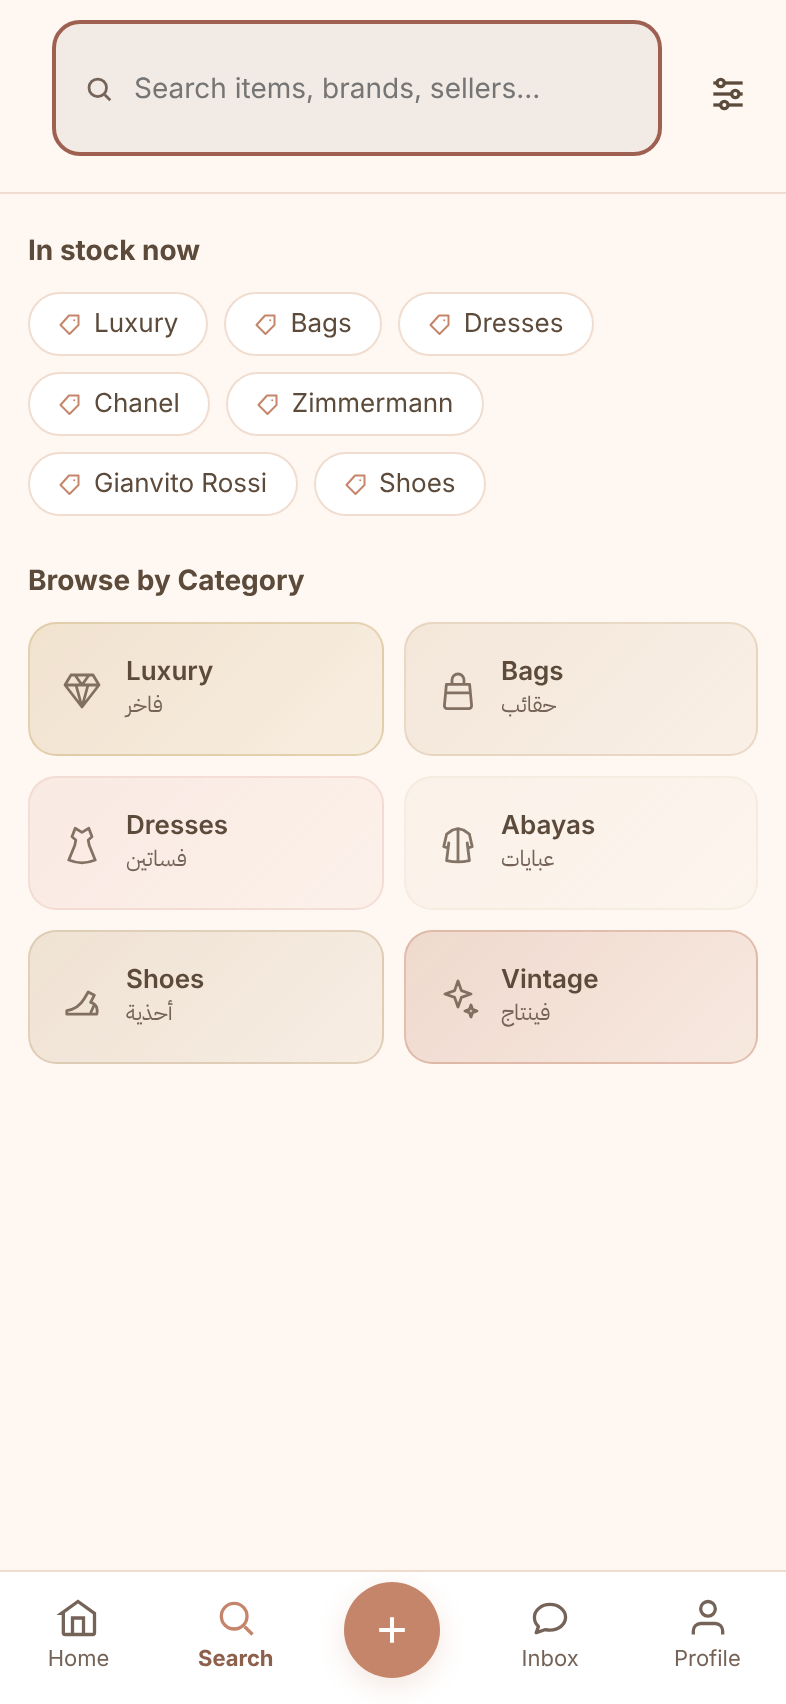
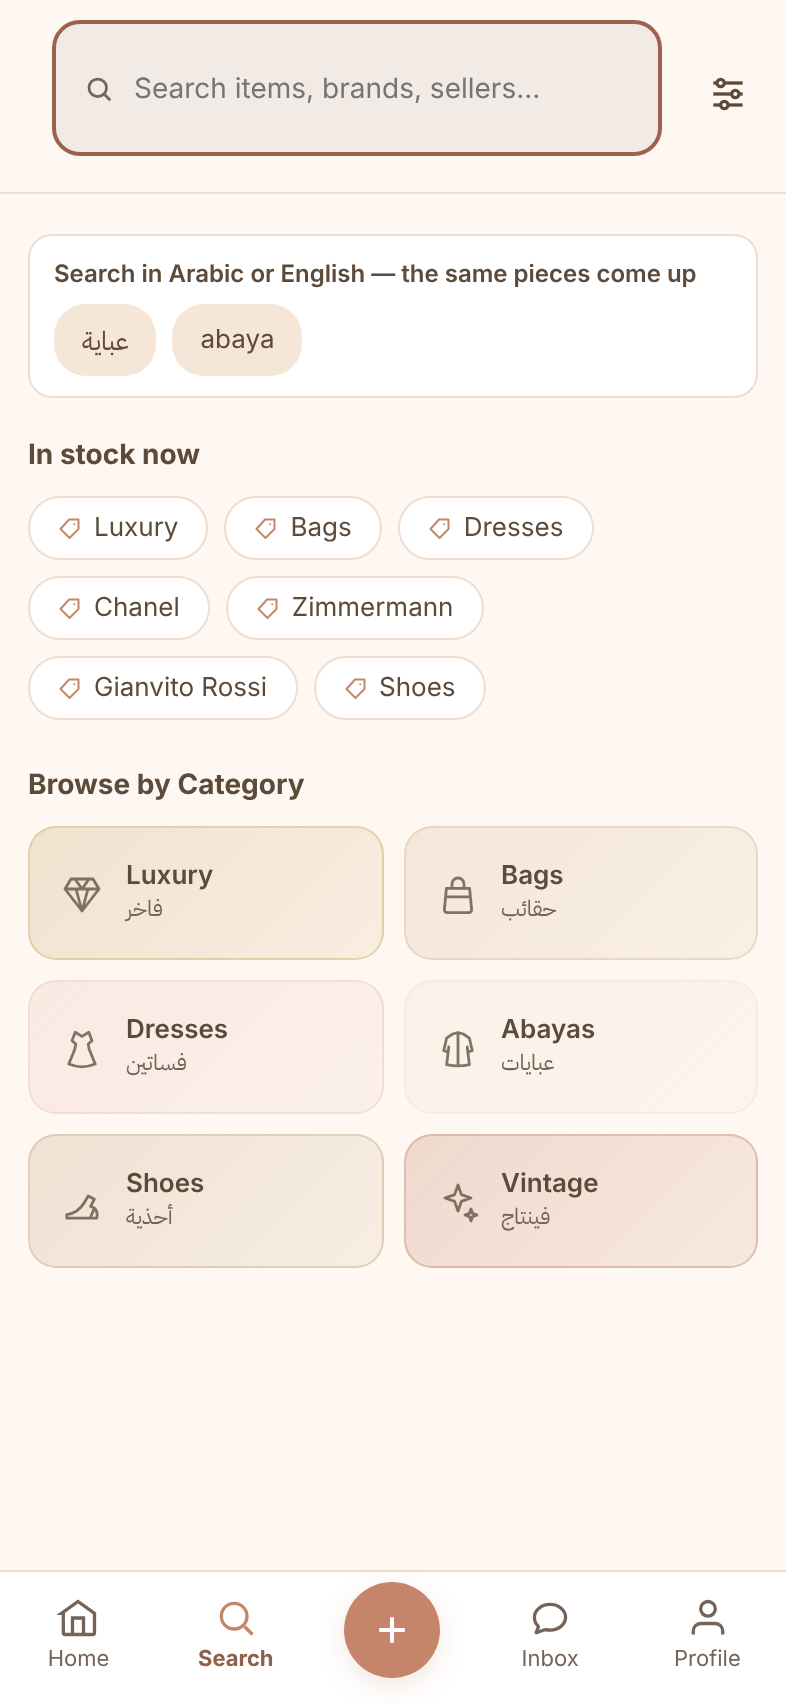
Search says what makes it different: Arabic or English, the same pieces
The empty search screen now opens with one line and two examples she can
tap, one per language (عباية, abaya), each its own control. The bilingual,
typo-tolerant search was lili's clearest advantage and nothing on the screen
said so.

Claude-Session: https://claude.ai/code/session_01P86DKSDSEYei5Au1GwvQne

diff --git a/app/src/pages/SearchPage.jsx b/app/src/pages/SearchPage.jsx
@@ -9,7 +9,7 @@ import { searchLocal, diagnose, suggestions } from "../discovery/search.js";
 import { matchesFilters } from "../discovery/filters.js";
 import { applySort } from "../discovery/ranking.js";
 import * as funnel from "../analytics/funnel.js";
-import { t } from "../i18n/t.js";
+import { t, getLang } from "../i18n/t.js";
 import { C, SearchBar, withHeart, ItemTile } from "../market/shared.jsx";
 import { FiltersPanel } from "../market/FiltersPanel.jsx";
 
@@ -115,6 +115,20 @@ export function SearchPage({items,shops,onSave,setModal,filters,setFilters,saved
               maxPrice: ss.max_price != null ? Number(ss.max_price) : f.maxPrice}));
             setQ(ss.query);
           }}/>
+          {/* The search's real advantage, said where she can try it: Arabic and
+              English find the same pieces (curated garment vocabulary, then
+              near spellings). Two examples she can tap, one per language,
+              each its own control — not one two-language label. */}
+          <div style={{background:C.white,border:`1px solid ${C.border}`,borderRadius:12,
+            padding:"10px 12px",marginBottom:20,fontSize:12,color:C.inkLt,lineHeight:1.5}}>
+            <div style={{color:C.ink,fontWeight:600,marginBottom:6}}>
+              {getLang()==="ar" ? "ابحثي بالعربية أو الإنجليزية — النتائج نفسها" : "Search in Arabic or English — the same pieces come up"}
+            </div>
+            <div style={{display:"flex",gap:8}}>
+              <button onClick={()=>setQ("عباية")} dir="rtl" lang="ar" style={exampleChip}>عباية</button>
+              <button onClick={()=>setQ("abaya")} dir="ltr" lang="en" style={exampleChip}>abaya</button>
+            </div>
+          </div>
           {trending.length>0 && <>
           <div style={{fontWeight:700,fontSize:14,color:C.ink,marginBottom:12}}>{t("in_stock_now")}</div>
           <div style={{display:"flex",flexWrap:"wrap",gap:8,marginBottom:24}}>
@@ -215,3 +229,6 @@ export function SearchPage({items,shops,onSave,setModal,filters,setFilters,saved
     </div>
   );
 }
+
+const exampleChip = { background:"var(--c-sand)", border:"none", borderRadius:16, padding:"6px 14px",
+  fontSize:13, color:"var(--c-ink)", cursor:"pointer", minHeight:36, fontFamily:"inherit" };
